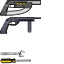
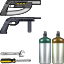
- wiring tool bugfixes - new oxygen and welding fuel tank sprites - more reliable method of checking that the sub can pass through the level - moved the name of the highlighted item to the bottom of the screen

Changed region(s): [[0.5938, 0.4688, 1.0, 1.0]]

diff --git a/Subsurface/Source/Characters/CharacterHUD.cs b/Subsurface/Source/Characters/CharacterHUD.cs
@@ -9,7 +9,6 @@ namespace Barotrauma
 {
     class CharacterHUD
     {
-
         private static Sprite statusIcons;
 
         private static Sprite noiseOverlay, damageOverlay;
@@ -22,7 +21,7 @@ namespace Barotrauma
         {
             healthBar.Flash();
 
-            damageOverlayTimer = MathHelper.Clamp(amount*0.1f, 0.2f, 5.0f);
+            damageOverlayTimer = MathHelper.Clamp(amount * 0.1f, 0.2f, 5.0f);
         }
 
         public static void Update(float deltaTime, Character character)
@@ -39,17 +38,17 @@ namespace Barotrauma
 
         public static void Draw(SpriteBatch spriteBatch, Character character, Camera cam)
         {
-            if (statusIcons==null)
+            if (statusIcons == null)
             {
                 statusIcons = new Sprite("Content/UI/statusIcons.png", Vector2.Zero);
             }
 
-            if (noiseOverlay==null)
+            if (noiseOverlay == null)
             {
-                noiseOverlay  = new Sprite("Content/UI/noise.png", Vector2.Zero);
+                noiseOverlay = new Sprite("Content/UI/noise.png", Vector2.Zero);
             }
 
-            if (damageOverlay==null)
+            if (damageOverlay == null)
             {
                 damageOverlay = new Sprite("Content/UI/damageOverlay.png", Vector2.Zero);
             }
@@ -71,26 +70,26 @@ namespace Barotrauma
                 Vector2 textPos = startPos;
                 textPos -= new Vector2(GUI.Font.MeasureString(character.ClosestCharacter.Info.Name).X / 2, 20);
 
-                GUI.DrawString(spriteBatch, textPos, character.ClosestCharacter.Info.Name, Color.Orange, Color.Black, 2);
+                GUI.DrawString(spriteBatch, textPos, character.ClosestCharacter.Info.Name, Color.White, Color.Black, 2);
             }
             else if (character.SelectedCharacter == null && character.ClosestItem != null && character.SelectedConstruction == null)
             {
+                var hudTexts = character.ClosestItem.GetHUDTexts(character);
 
-                Vector2 startPos = character.DrawPosition + (character.ClosestItem.DrawPosition - character.DrawPosition) * 0.7f;
-                startPos = cam.WorldToScreen(startPos);
+                Vector2 startPos = new Vector2((int)(GameMain.GraphicsWidth / 2.0f), (int)(GameMain.GraphicsHeight));
+                startPos.Y -= 50 + hudTexts.Count * 25;
 
                 Vector2 textPos = startPos;
-                textPos -= new Vector2(GUI.Font.MeasureString(character.ClosestItem.Name).X / 2, 20);
+                textPos -= new Vector2((int)GUI.Font.MeasureString(character.ClosestItem.Name).X / 2, 20);
 
-                GUI.DrawString(spriteBatch, textPos, character.ClosestItem.Name, Color.Orange, Color.Black * 0.7f, 2);
-
-
-                textPos.Y += 50.0f;
-                foreach (ColoredText coloredText in character.ClosestItem.GetHUDTexts(character))
+                GUI.DrawString(spriteBatch, textPos, character.ClosestItem.Name, Color.White, Color.Black * 0.7f, 2);
+                
+                textPos.Y += 30.0f;
+                foreach (ColoredText coloredText in hudTexts)
                 {
-                    textPos.X = startPos.X - GUI.Font.MeasureString(coloredText.Text).X / 2;
+                    textPos.X = (int)(startPos.X - GUI.SmallFont.MeasureString(coloredText.Text).X / 2);
 
-                    GUI.DrawString(spriteBatch, textPos, coloredText.Text, coloredText.Color, Color.Black*0.7f, 2);
+                    GUI.DrawString(spriteBatch, textPos, coloredText.Text, coloredText.Color, Color.Black*0.7f, 2, GUI.SmallFont);
                     
                     textPos.Y += 25;
                 }

diff --git a/Subsurface/Source/Screens/EditMapScreen.cs b/Subsurface/Source/Screens/EditMapScreen.cs
@@ -516,8 +516,9 @@ namespace Barotrauma
         {
             if (dummyCharacter == null) return false;
 
+            //if the same type of wire has already been selected, deselect it and return
             Item existingWire = dummyCharacter.SelectedItems.FirstOrDefault(i => i != null && i.Prefab == userData as ItemPrefab);
-            if (existingWire!=null)
+            if (existingWire != null)
             {
                 existingWire.Drop();
                 existingWire.Remove();
@@ -526,12 +527,14 @@ namespace Barotrauma
 
             var wire = new Item(userData as ItemPrefab, Vector2.Zero, null);
 
-
             int slotIndex = dummyCharacter.Inventory.FindLimbSlot(LimbSlot.LeftHand);
-            if (dummyCharacter.Inventory.Items[slotIndex] != null && dummyCharacter.Inventory.Items[slotIndex].Prefab != userData as ItemPrefab)
+
+            //if there's some other type of wire in the inventory, remove it
+            existingWire = dummyCharacter.Inventory.Items[slotIndex];
+            if (existingWire != null && existingWire.Prefab != userData as ItemPrefab)
             {
-                dummyCharacter.Inventory.Items[slotIndex].Drop();
-                dummyCharacter.Inventory.Items[slotIndex].Remove();
+                existingWire.Drop();
+                existingWire.Remove();
             }
 
             dummyCharacter.Inventory.TryPutItem(wire, slotIndex, false, false);
@@ -663,7 +666,7 @@ namespace Barotrauma
 
             if (wiringMode)
             {
-                if (!dummyCharacter.SelectedItems.Any(it => it.HasTag("Wire")))
+                if (!dummyCharacter.SelectedItems.Any(it => it != null && it.HasTag("Wire")))
                 {
                     wiringToolPanel.GetChild<GUIListBox>().Deselect();
                 }

diff --git a/Subsurface/Source/Map/Levels/Level.cs b/Subsurface/Source/Map/Levels/Level.cs
@@ -162,7 +162,7 @@ namespace Barotrauma
             backgroundColor = new Color(backgroundColor, 1.0f);
 
             float minWidth = Submarine.Loaded == null ? 0.0f : Math.Max(Submarine.Borders.Width, Submarine.Borders.Height);
-            minWidth = Math.Max(minWidth, 3500.0f);
+            minWidth = Math.Max(minWidth, 6500.0f);
 
             startPosition = new Vector2((int)minWidth * 2, Rand.Range((int)minWidth * 2, borders.Height - (int)minWidth * 2, false));
             endPosition = new Vector2(borders.Width - (int)minWidth * 2, Rand.Range((int)minWidth * 2, borders.Height - (int)minWidth * 2, false));
@@ -628,12 +628,11 @@ namespace Barotrauma
                     if (tooClose && !tooCloseCells.Contains(cell)) tooCloseCells.Add(cell);
                 }
 
-                for (int x = -1; x <= 1; x++)
+                for (float x = -minDistance; x <= minDistance; x+=siteInterval)
                 {
-                    for (int y = -1; y <= 1; y++)
+                    for (float y = -minDistance; y <= minDistance; y += siteInterval)
                     {
-                        if (x == 0 && y == 0) continue;
-                        Vector2 cornerPos = position + new Vector2(x * minDistance, y * minDistance);
+                        Vector2 cornerPos = position + new Vector2(x,y);
 
                         int cellIndex = FindCellIndex(cornerPos);
                         if (cellIndex == -1) continue;

diff --git a/Subsurface/Source/DebugConsole.cs b/Subsurface/Source/DebugConsole.cs
@@ -219,10 +219,6 @@ namespace Barotrauma
                     if (spawnedCharacter != null && GameMain.Server != null) GameMain.Server.SendCharacterSpawnMessage(spawnedCharacter);
 
                     break;
-                //case "startserver":
-                //    if (Game1.Server==null)
-                //        Game1.NetworkMember = new GameServer();
-                //    break;
                 case "kick":
                     if (GameMain.Server == null) break;
                     GameMain.Server.KickPlayer(commands[1]);

diff --git a/Subsurface/Source/Characters/Character.cs b/Subsurface/Source/Characters/Character.cs
@@ -377,6 +377,8 @@ namespace Barotrauma
 
         public static Character Create(string file, Vector2 position, CharacterInfo characterInfo = null, bool isNetworkPlayer = false, bool hasAi=true)
         {
+            if (!System.IO.File.Exists(file)) return null;
+
             if (file != humanConfigFile)
             {
                 var enemyCharacter = new AICharacter(file, position, characterInfo, isNetworkPlayer);

diff --git a/Subsurface/Source/Items/Components/Signal/LightComponent.cs b/Subsurface/Source/Items/Components/Signal/LightComponent.cs
@@ -164,6 +164,9 @@ namespace Barotrauma.Items.Components
                 case "set_state":           
                     IsActive = (signal != "0");                   
                     break;
+                case "set_color":
+                    LightColor = signal;
+                    break;
             }
         }
     }
